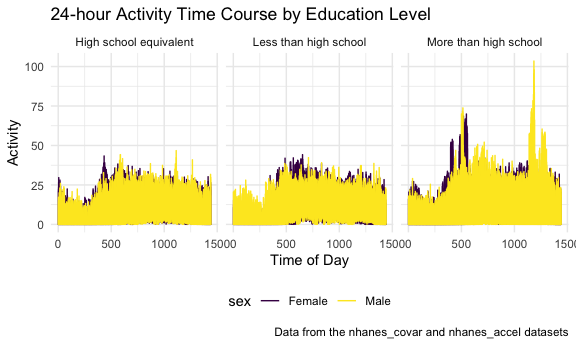
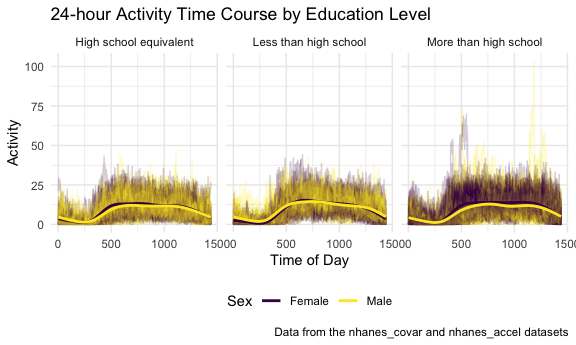
add some comments

Changed region(s): [[0.0938, 0.1739, 1.0, 0.6667], [0.375, 0.8406, 0.6875, 0.8986]]

diff --git a/p8105_hw3_xz3173.md b/p8105_hw3_xz3173.md
@@ -472,10 +472,12 @@ ggplot(merged_df, aes(x = age, fill = sex)) +
 
 <img src="p8105_hw3_xz3173_files/figure-gfm/unnamed-chunk-19-1.png" width="90%" />
 
-Comment on these items.
-
-Traditional analyses of accelerometer data focus on the total activity
-over the day.
+Comments: There are more males than females have education of level of
+high school equivalent. Both males and females have more people with
+education level of more than high school. The age distribution among
+high school equivalent and less than high school is approximately same.
+The age distribution for more than high school is tends to lean on lower
+ages.
 
 Using your tidied dataset, aggregate across minutes to create a total
 activity variable for each participant. Plot these total activities
@@ -507,11 +509,21 @@ ggplot(activity_df, aes(x = age, y = total_activity, color = sex)) +
 
 <img src="p8105_hw3_xz3173_files/figure-gfm/unnamed-chunk-20-1.png" width="90%" />
 
-Comment on your plot.
+Comments: From the plot, we can see the spread of the points mostly stay
+in the bottom of the plot, which means most of people have lower
+activity. From the slopes of the trend lines, we could see the negative
+slopes, which indicates the negative relationship between the two
+variables of age and total activities, when the age goes up, the total
+activities goes down, and vice versa. From the plot of high school
+equivalent and less than high school, we can see males tend to have
+higher activity. For the more than high school plot, female has a
+slightly higher trend line than male, which indicates female has a
+little higher total activity than male. There are also some anomalies
+points in the plots, which means there are a few people don’t follow the
+trend line and have higher activity.
 
-Accelerometer data allows the inspection activity over the course of the
-day. Make a three-panel plot that shows the 24-hour activity time
-courses for each education level and use color to indicate sex.
+Make a three-panel plot that shows the 24-hour activity time courses for
+each education level and use color to indicate sex.
 
 ``` r
 inspection_activity = merged_df |>
@@ -523,11 +535,13 @@ inspection_activity = merged_df |>
   mutate(Minute = as.numeric(Minute))
 
 ggplot(inspection_activity, aes(x = Minute, y = Activity, color = sex)) +
-  geom_line() +
+  geom_line(aes(group = seqn), alpha = 0.2) +
+  geom_smooth(method = "gam", formula = y ~ s(x, bs = "cs"), se = FALSE) +
   facet_grid(. ~ education) +
   labs(title = "24-hour Activity Time Course by Education Level",
        x = "Time of Day",
        y = "Activity",
+       color = "Sex",
        caption = "Data from the nhanes_covar and nhanes_accel datasets") 
 ```
 
@@ -535,3 +549,17 @@ ggplot(inspection_activity, aes(x = Minute, y = Activity, color = sex)) +
 
 Describe in words any patterns or conclusions you can make based on this
 graph; including smooth trends may help identify differences.
+
+The faint lines are closely clustered, which indicates that many people
+have similar activity patterns. Except for the plot of more than high
+school, there are some lines are scattered, which indicates that some
+people have different activity patterns. The color represent sex, which
+indicates males and females mostly have similar trends of activity
+around the day. Except for more than high school, females tend to might
+be more active during the middle of the day. The smoothed line gives an
+average trend across everyone. The peaks in those trend suggest that
+most people have active times during 500 min to 1000 min in the 24-hour,
+while troughs suggest more sedentary periods. Since the x-axis
+represents time, activity during late night hours (time0-time250) are
+likely due to sleeping, peak could be associated with typical working
+hours, meal times, or exercise periods (time500-time1000+).
